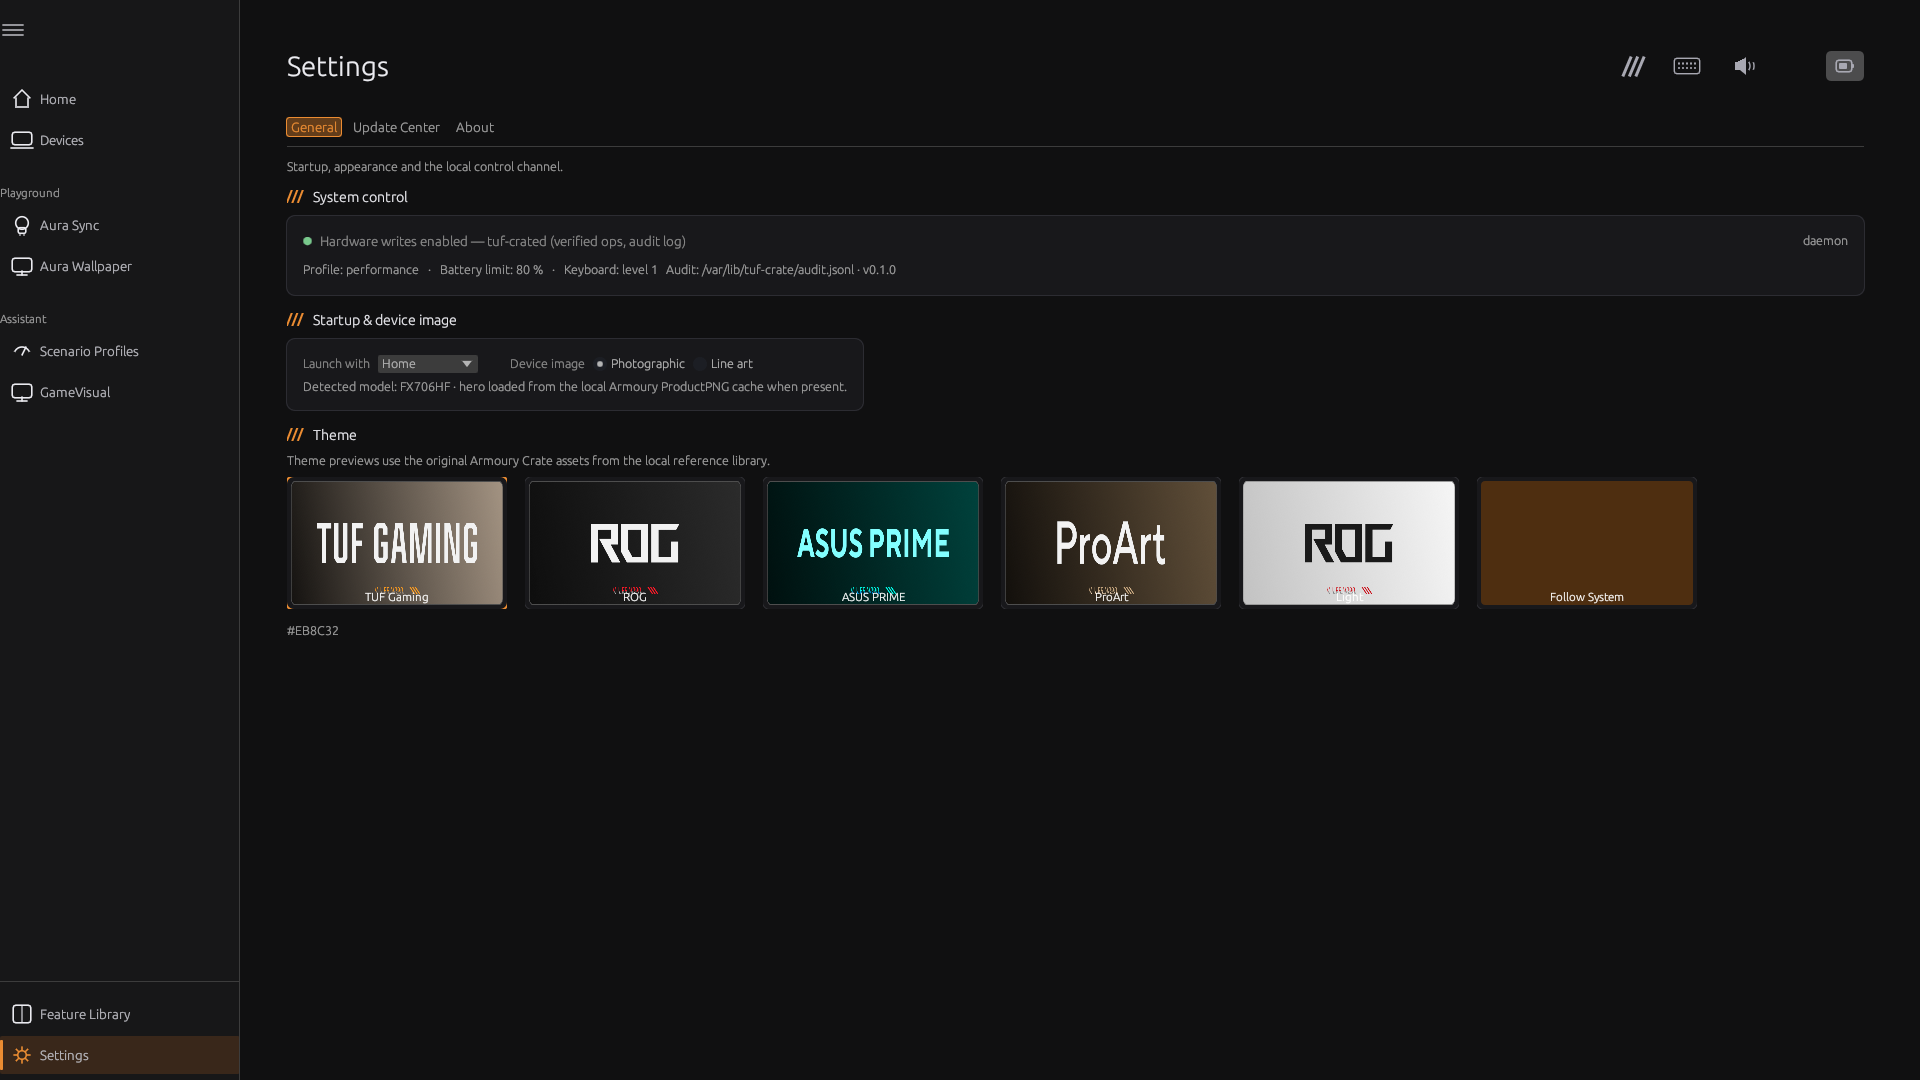
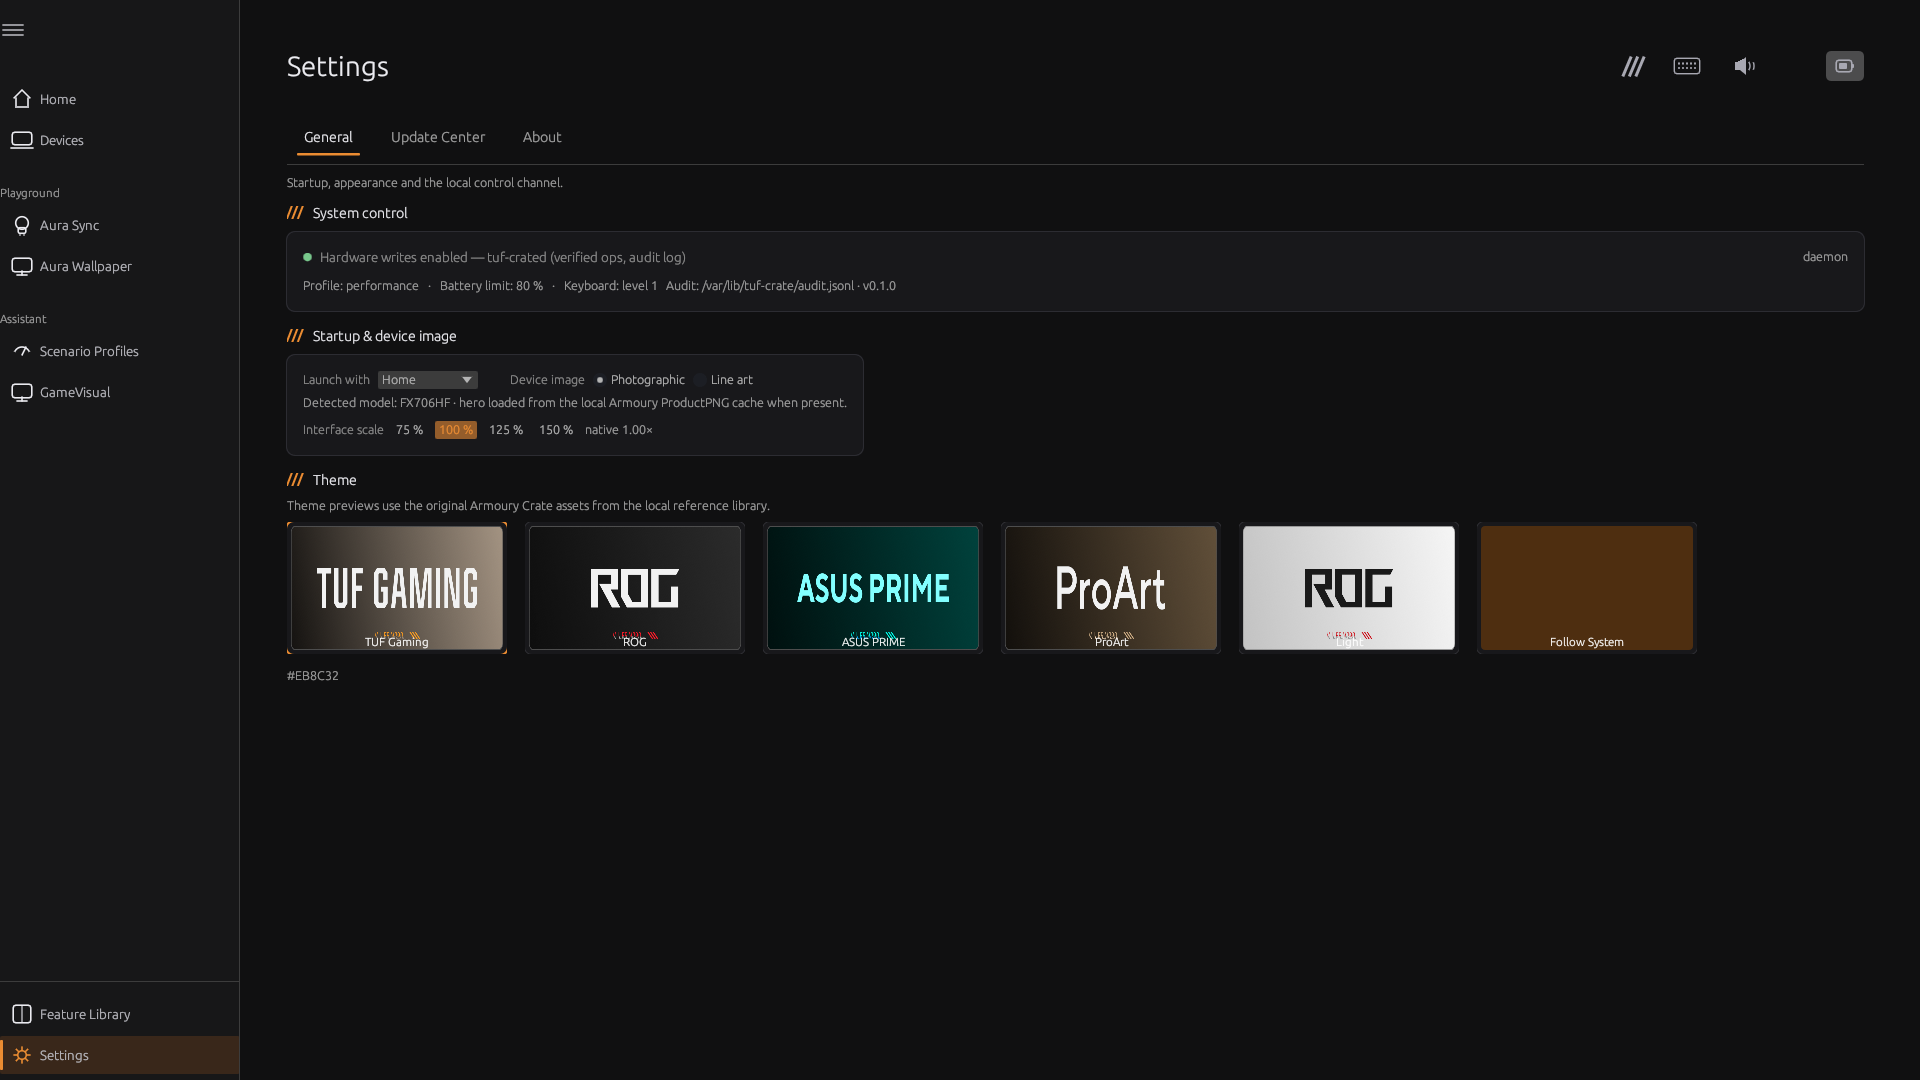
UI: normalise native X11 scale and match Armoury tab strip
- force effective 1:1 physical rendering by default; Settings offers 75–150% scale
  (fixes the 1.333x-scaled session clipping and wrong column counts)
- tab strips now use the reference's plain labels + orange underline, not boxed buttons
- median 3-second CPU clock display instead of second-by-second jumps
- per-process CPU is a whole-machine percentage (no more 140% values)
- CPU cap tile restores the 65 W default instead of cycling downward
- refresh docs screenshots and verification notes

Changed region(s): [[0.125, 0.0917, 0.4688, 0.6111], [0.4062, 0.4278, 0.9062, 0.6111], [0.9375, 0.2139, 0.9688, 0.2444]]

diff --git a/crates/tuf-gui/src/main.rs b/crates/tuf-gui/src/main.rs
@@ -1340,37 +1340,54 @@ fn tab_strip<T: PartialEq + Copy>(
     items: &[(T, &str)],
     accent: egui::Color32,
 ) {
-    ui.horizontal_wrapped(|ui| {
-        for (value, label) in items {
+    ui.horizontal(|ui| {
+        ui.spacing_mut().item_spacing.x = 0.0;
+        for (value, label) in items.iter() {
             let selected = *current == *value;
-            let resp = ui.add(
-                egui::Button::new(egui::RichText::new(*label).size(13.0).color(if selected {
-                    accent
-                } else {
-                    egui::Color32::GRAY
-                }))
-                .fill(if selected {
-                    egui::Color32::from_rgba_unmultiplied(accent.r(), accent.g(), accent.b(), 28)
-                } else {
-                    egui::Color32::TRANSPARENT
-                })
-                .stroke(if selected {
-                    egui::Stroke::new(1.0, accent)
-                } else {
-                    egui::Stroke::NONE
-                }),
+            let galley = ui.painter().layout_no_wrap(
+                (*label).to_string(),
+                egui::FontId::proportional(14.0),
+                egui::Color32::WHITE,
             );
+            let w = galley.size().x + 34.0;
+            let (rect, resp) =
+                ui.allocate_exact_size(egui::vec2(w, 38.0), egui::Sense::click());
+            let p = ui.painter_at(rect);
+            if resp.hovered() && !selected {
+                p.rect_filled(rect, 3.0, egui::Color32::from_rgba_unmultiplied(255, 255, 255, 8));
+            }
+            p.text(
+                egui::pos2(rect.center().x, rect.center().y - 1.0),
+                egui::Align2::CENTER_CENTER,
+                *label,
+                egui::FontId::proportional(14.0),
+                if selected {
+                    text_main()
+                } else {
+                    text_muted()
+                },
+            );
+            if selected {
+                p.rect_filled(
+                    egui::Rect::from_min_size(
+                        egui::pos2(rect.left() + 10.0, rect.bottom() - 3.0),
+                        egui::vec2(rect.width() - 20.0, 2.5),
+                    ),
+                    1.0,
+                    accent,
+                );
+            }
             if resp.clicked() {
                 *current = *value;
             }
+            ui.add_space(4.0);
         }
     });
-    ui.add_space(4.0);
+    ui.add_space(2.0);
     ui.separator();
-    ui.add_space(8.0);
+    ui.add_space(6.0);
 }
 
-/// A live, clickable control tile (Armoury "device feature" card style).
 #[allow(clippy::too_many_arguments)]
 fn control_tile(
     ui: &mut egui::Ui,
@@ -1796,7 +1813,10 @@ struct TufApp {
     last_game_check: std::time::Instant,
     cpu_util: Option<u32>,
     cpu_mhz: Option<u64>,
+    cpu_mhz_hist: std::collections::VecDeque<u64>,
     fan_hist: std::collections::VecDeque<(u32, u32)>,
+    native_ppp: f32,
+    ui_scale: f32,
     prev_stat: Option<(u64, u64)>,
     last_page: (Tab, DeviceTab, AuraTab, SettingsTab),
     scroll_reset: bool,
@@ -1827,6 +1847,18 @@ impl TufApp {
             .get("device_line_art")
             .and_then(|v| v.as_bool())
             .unwrap_or(false);
+        // Armoury renders at 1:1 on this 1920x1080 panel. Some X11 sessions
+        // report a non-1.0 native scale (e.g. 1.333); neutralise it so the
+        // reference layout keeps its real pixel geometry. The user can opt
+        // into a larger UI scale from Settings.
+        let native_ppp = (ctx.pixels_per_point() / ctx.zoom_factor()).max(0.5);
+        let ui_scale = saved
+            .get("ui_scale")
+            .and_then(|v| v.as_f64())
+            .map(|v| v as f32)
+            .unwrap_or(1.0)
+            .clamp(0.75, 2.0);
+        ctx.set_zoom_factor(ui_scale / native_ppp);
         let initial_tab = match launch_page.as_str() {
             "Devices" => Tab::Devices,
             "Lighting & Aura Sync" => Tab::AuraSync,
@@ -1925,7 +1957,10 @@ impl TufApp {
             last_game_check: std::time::Instant::now(),
             cpu_util: None,
             cpu_mhz: None,
+            cpu_mhz_hist: std::collections::VecDeque::new(),
             fan_hist: std::collections::VecDeque::new(),
+            native_ppp,
+            ui_scale,
             prev_stat: None,
             last_page: (
                 initial_tab,
@@ -1990,7 +2025,15 @@ impl TufApp {
             }
         }
         if max_khz > 0 {
-            self.cpu_mhz = Some(max_khz / 1000);
+            let mhz = max_khz / 1000;
+            self.cpu_mhz_hist.push_back(mhz);
+            while self.cpu_mhz_hist.len() > 6 {
+                self.cpu_mhz_hist.pop_front();
+            }
+            let mut samples: Vec<u64> = self.cpu_mhz_hist.iter().copied().collect();
+            samples.sort_unstable();
+            // 3-second median: stable to read, still follows real load.
+            self.cpu_mhz = Some(samples[samples.len() / 2]);
         }
         match self.backend.telemetry() {
             Ok(t) => {
@@ -2275,6 +2318,16 @@ fn friendly_error(e: &HalError) -> String {
 
 impl eframe::App for TufApp {
     fn update(&mut self, ctx: &egui::Context, _frame: &mut eframe::Frame) {
+        // Enforce the requested interface scale against the actual native
+        // scale. Some X11 sessions report 1.333×; without this the reference
+        // 1:1 layout would render 33 % too large and clip.
+        let native = (ctx.pixels_per_point() / ctx.zoom_factor()).max(0.5);
+        let desired_zoom = (self.ui_scale / native).clamp(0.4, 2.0);
+        if (ctx.zoom_factor() - desired_zoom).abs() > 0.002 {
+            ctx.set_zoom_factor(desired_zoom);
+        }
+        self.native_ppp = native;
+
         const SPLASH_SECS: f32 = 2.2;
         let splash_t = self.splash_start.elapsed().as_secs_f32();
         if std::env::var("TUF_CRATE_SKIP_SPLASH").is_err() && splash_t < SPLASH_SECS {
@@ -2893,9 +2946,9 @@ impl TufApp {
             (
                 "CPU power cap",
                 &format!("{pl1} W sustained"),
-                "Click to cycle 65 / 45 / 35 W",
+                "Click to restore the 65 W firmware default",
                 3u8,
-                pl1 > 0,
+                pl1 >= 65,
             ),
             (
                 "Live monitoring",
@@ -2983,13 +3036,8 @@ impl TufApp {
                     self.devices_sub = DeviceTab::Audio;
                 }
                 6 => {
-                    let next = match pl1 {
-                        65 => 45,
-                        45 => 35,
-                        _ => 65,
-                    };
-                    match self.backend.set_cpu_power_limit(next, true) {
-                        Ok(()) => self.report(format!("CPU sustained limit -> {next} W"), false),
+                    match self.backend.set_cpu_power_limit(65, true) {
+                        Ok(()) => self.report("CPU sustained limit -> 65 W (firmware default)".into(), false),
                         Err(e) => self.report(format!("power limit failed: {}", friendly_error(&e)), true),
                     }
                     self.poll();
@@ -3048,6 +3096,69 @@ impl TufApp {
         );
         ui.add_space(8.0);
         let rows = read_proc_rows(30);
+        let ram = self.telemetry.as_ref().and_then(|t| match (t.ram_used_gb, t.ram_total_gb) {
+            (Some(u), Some(tot)) => Some((u, tot)),
+            _ => None,
+        });
+        let cards = [
+            (
+                "Memory in use",
+                ram.map(|(u, tot)| format!("{u:.1} / {tot:.1} GB"))
+                    .unwrap_or_else(|| "--".into()),
+                ram.map(|(u, tot)| u / tot.max(0.1)).unwrap_or(0.0),
+            ),
+            (
+                "CPU load",
+                format!("{} %", self.cpu_util.unwrap_or(0)),
+                self.cpu_util.unwrap_or(0) as f32 / 100.0,
+            ),
+            (
+                "Selected",
+                format!("{} process(es)", self.free_selected.len()),
+                (self.free_selected.len() as f32 / 8.0).clamp(0.0, 1.0),
+            ),
+        ];
+        let gap = 10.0;
+        let cw = ((ui.available_width() - 2.0 * gap) / 3.0).max(220.0);
+        ui.horizontal(|ui| {
+            ui.spacing_mut().item_spacing.x = 0.0;
+            for (i, (label, value, frac)) in cards.iter().enumerate() {
+                let (r, _) = ui.allocate_exact_size(egui::vec2(cw, 86.0), egui::Sense::hover());
+                let p = ui.painter_at(r);
+                p.rect_filled(r, 8.0, card_bg());
+                p.rect_stroke(r.shrink(0.5), 8.0, egui::Stroke::new(1.0, egui::Color32::from_rgb(44, 44, 50)));
+                p.text(
+                    egui::pos2(r.left() + 16.0, r.top() + 18.0),
+                    egui::Align2::LEFT_CENTER,
+                    *label,
+                    egui::FontId::proportional(11.5),
+                    text_muted(),
+                );
+                p.text(
+                    egui::pos2(r.left() + 16.0, r.top() + 43.0),
+                    egui::Align2::LEFT_CENTER,
+                    value,
+                    egui::FontId::proportional(18.0),
+                    text_main(),
+                );
+                let bar = egui::Rect::from_min_size(
+                    egui::pos2(r.left() + 16.0, r.bottom() - 18.0),
+                    egui::vec2(r.width() - 32.0, 3.0),
+                );
+                p.rect_filled(bar, 1.5, meter_bg());
+                if *frac > 0.0 {
+                    p.rect_filled(
+                        egui::Rect::from_min_size(bar.min, egui::vec2(bar.width() * frac.clamp(0.0, 1.0), 3.0)),
+                        1.5,
+                        accent,
+                    );
+                }
+                if i < 2 {
+                    ui.add_space(gap);
+                }
+            }
+        });
+        ui.add_space(10.0);
         ui.horizontal(|ui| {
             if ui.button("Refresh").clicked() {
                 self.free_selected.clear();
@@ -3087,10 +3198,15 @@ impl TufApp {
             .duration_since(self.proc_last_at)
             .as_secs_f32()
             .max(0.05);
+        // Show percentage of the whole machine (0–100), not per-core
+        // (which can exceed 100 % and looks like a telemetry bug).
+        let ncpu = std::thread::available_parallelism()
+            .map(|n| n.get())
+            .unwrap_or(1) as f32;
         for row in &rows {
             if let Some(prev) = self.proc_last.get(&row.pid) {
                 let delta = row.ticks.saturating_sub(*prev) as f32;
-                let pct = (delta / 100.0 / dt * 100.0).clamp(0.0, 999.0);
+                let pct = (delta / 100.0 / dt * 100.0 / ncpu).clamp(0.0, 100.0);
                 self.proc_cpu.insert(row.pid, pct);
             }
             self.proc_last.insert(row.pid, row.ticks);
@@ -4665,6 +4781,28 @@ impl TufApp {
                         self.hero_model
                     ),
                 );
+                ui.add_space(8.0);
+                ui.horizontal(|ui| {
+                    ui.label("Interface scale");
+                    for pct in [75u32, 100, 125, 150] {
+                        let target = pct as f32 / 100.0;
+                        let selected = (self.ui_scale - target).abs() < 0.01;
+                        if ui
+                            .selectable_label(selected, format!("{pct} %"))
+                            .on_hover_text("Armoury matches 100 % on this panel")
+                            .clicked()
+                            && !selected
+                        {
+                            self.ui_scale = target;
+                            ui.ctx().set_zoom_factor(target / self.native_ppp);
+                            self.save_ui_settings();
+                        }
+                    }
+                    ui.colored_label(
+                        egui::Color32::GRAY,
+                        format!("native {:.2}×", self.native_ppp),
+                    );
+                });
             });
 
         ui.add_space(12.0);
@@ -4807,6 +4945,7 @@ impl TufApp {
             "theme": format!("{:?}", self.theme),
             "launch_page": self.launch_page,
             "device_line_art": self.device_line_art,
+            "ui_scale": self.ui_scale,
         });
         let _ = std::fs::write(path, serde_json::to_string_pretty(&doc).unwrap_or_default());
     }

diff --git a/docs/UI-VERIFICATION.md b/docs/UI-VERIFICATION.md
@@ -85,6 +85,10 @@ Verified headlessly (Xvfb) — see `docs/images/home-hero.png` and `docs/images/
 
 ## Addendum — responsive layout, live controls and dGPU safety (2026-11-02)
 
+- The UI now normalises the X11 native scale to 1:1 physical pixels by default. Some
+  sessions report 1.333×, which made the reference layout render 33 % too large, clip
+  content and select the wrong responsive breakpoints. Settings exposes 75/100/125/150 %
+  for users who want a larger interface.
 - Every page resets its scroll position when switching pages/sub-tabs, so a scrolled
   System Settings page can no longer reappear as blank cards.
 - Home fills a maximised 1920×1080 window: the Devices card grows and Operating Mode is

diff --git a/docs/UI-REDESIGN.md b/docs/UI-REDESIGN.md
@@ -68,6 +68,7 @@ cache (`90NR0HC4-M003D0_crop.png`) and is loaded automatically for the detected 
 ![Home](images/home-armoury-layout.png)
 ![Splash](images/splash.png)
 ![System Settings](images/system-settings.png)
+![Free up memory](images/free-memory.png)
 ![GameVisual](images/gamevisual.png)
 ![Scenario Profiles](images/scenario-profiles.png)
 ![Aura Wallpaper](images/aura-wallpaper.png)
